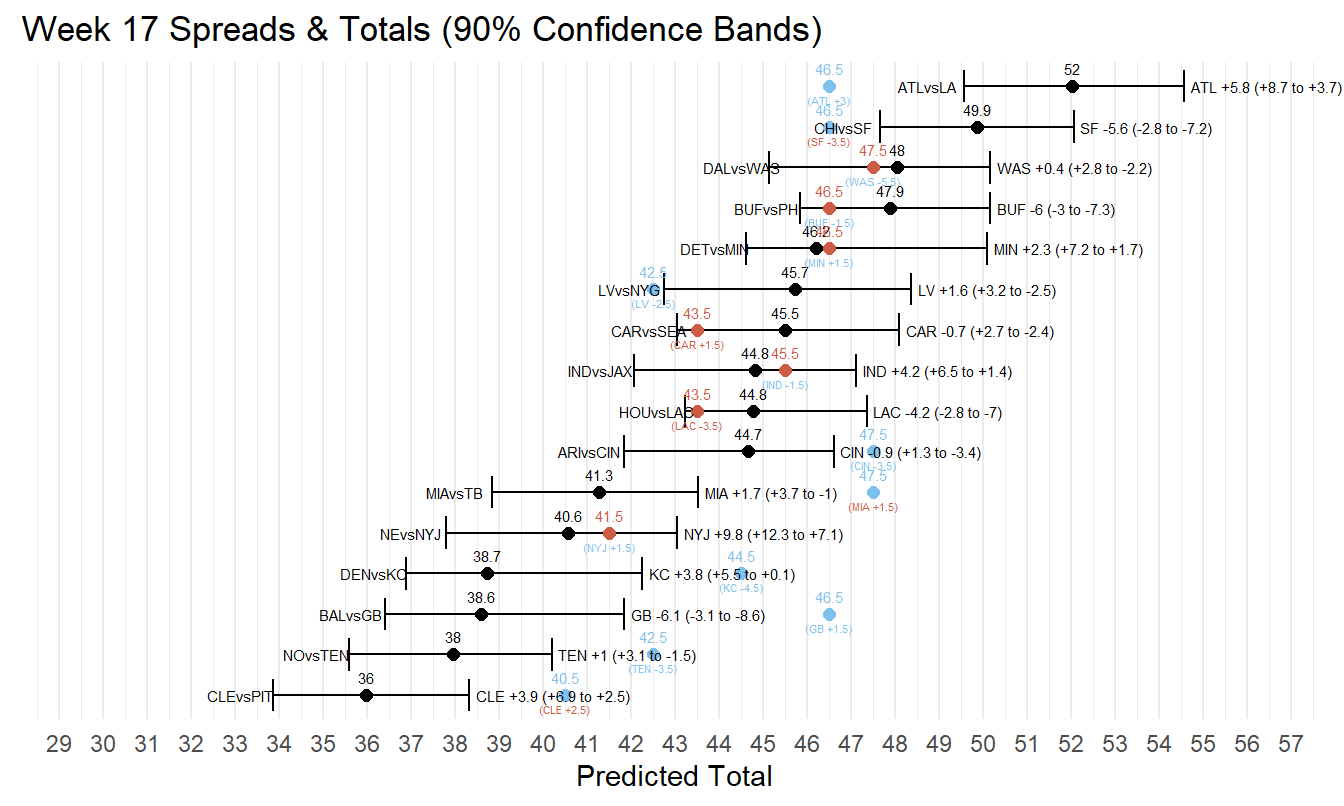
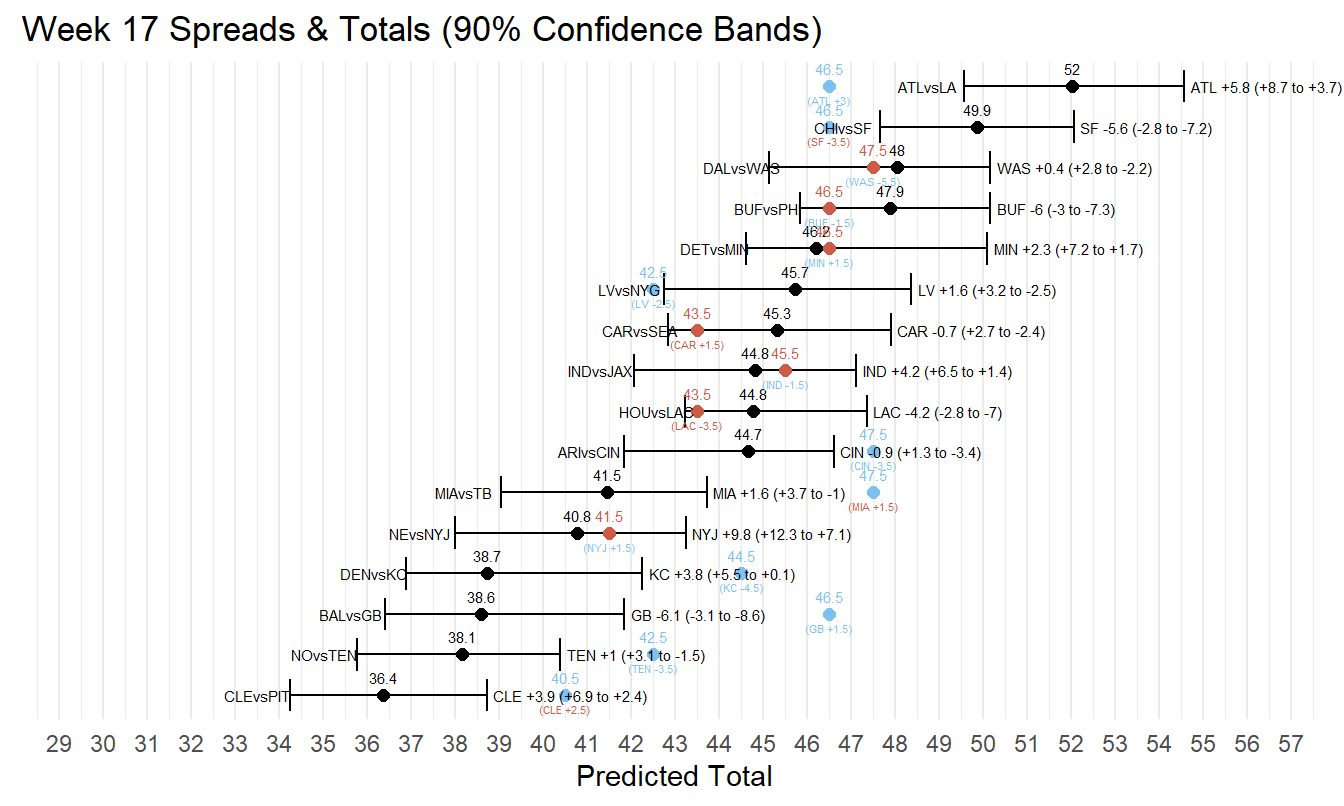
fixed EV tables

diff --git a/docs/mods.html b/docs/mods.html
@@ -127,7 +127,7 @@ Note
 </div>
 </div>
 <div class="callout-body-container callout-body">
-<p>Updated as of Saturday, December 27, 2025 at 9:17:27 PM</p>
+<p>Updated as of Saturday, December 27, 2025 at 9:28:20 PM</p>
 </div>
 </div>
 <section id="my-model-vs-vegas-based-on-opening-bet-lines" class="level2">
@@ -648,7 +648,7 @@ Note
 <tr class="odd">
 <td class="gt_row gt_left" headers="game">PIT @ CLE</td>
 <td class="gt_row gt_left" headers="total_line_label">40.5</td>
-<td class="gt_row gt_left" headers="total_mod_label">36.0</td>
+<td class="gt_row gt_left" headers="total_mod_label">36.4</td>
 <td class="gt_row gt_left" headers="bet_total">NA</td>
 <td class="gt_row gt_left" headers="spread_line_label">CLE +2.5</td>
 <td class="gt_row gt_left" headers="spread_mod_label">CLE +3.9</td>
@@ -3346,6 +3346,17 @@ Note
 
 <table class="gt_table caption-top table table-sm table-striped small" data-quarto-postprocess="true" data-quarto-disable-processing="false" data-quarto-bootstrap="false">
 <caption><strong>Bets to Take, Updated for Current Odds</strong></caption>
+<colgroup>
+<col style="width: 11%">
+<col style="width: 11%">
+<col style="width: 11%">
+<col style="width: 11%">
+<col style="width: 11%">
+<col style="width: 11%">
+<col style="width: 11%">
+<col style="width: 11%">
+<col style="width: 11%">
+</colgroup>
 <thead>
 <tr class="gt_col_headings header">
 <th id="game" class="gt_col_heading gt_columns_bottom_border gt_left" data-quarto-table-cell-role="th" scope="col"><strong>Game</strong></th>
@@ -3361,66 +3372,105 @@ Note
 </thead>
 <tbody class="gt_table_body">
 <tr class="odd">
-<td class="gt_row gt_left" headers="game">ARIvsCIN</td>
-<td class="gt_row gt_left" headers="total_line_current_label">53.5</td>
-<td class="gt_row gt_left" headers="total_mod_label">44.7</td>
-<td class="gt_row gt_left" headers="side_current_total">Over</td>
-<td class="gt_row gt_left" headers="stake_current_total">1.10</td>
-<td class="gt_row gt_left" headers="spread_line_current_label">(CIN -7)</td>
-<td class="gt_row gt_left" headers="spread_mod_label">CIN -0.9</td>
-<td class="gt_row gt_left" headers="side_current_spread">Home</td>
-<td class="gt_row gt_left" headers="stake_current_spread">1.10</td>
+<td class="gt_row gt_left" headers="game">PIT @ CLE</td>
+<td class="gt_row gt_left" headers="total_line_current_label">33.5</td>
+<td class="gt_row gt_left" headers="total_mod_label">36.4</td>
+<td class="gt_row gt_left" headers="side_current_total">Under</td>
+<td class="gt_row gt_left" headers="stake_current_total">1.97</td>
+<td class="gt_row gt_left" headers="spread_line_current_label">(CLE +3)</td>
+<td class="gt_row gt_left" headers="spread_mod_label">CLE +3.9</td>
+<td class="gt_row gt_left" headers="side_current_spread"><br>
+</td>
+<td class="gt_row gt_left" headers="stake_current_spread">0.00</td>
 </tr>
 <tr class="even">
-<td class="gt_row gt_left" headers="game">BUFvsPHI</td>
+<td class="gt_row gt_left" headers="game">NO @ TEN</td>
+<td class="gt_row gt_left" headers="total_line_current_label">39.5</td>
+<td class="gt_row gt_left" headers="total_mod_label">38.1</td>
+<td class="gt_row gt_left" headers="side_current_total">Under</td>
+<td class="gt_row gt_left" headers="stake_current_total">1.50</td>
+<td class="gt_row gt_left" headers="spread_line_current_label">(TEN +2.5)</td>
+<td class="gt_row gt_left" headers="spread_mod_label">TEN +1</td>
+<td class="gt_row gt_left" headers="side_current_spread"><br>
+</td>
+<td class="gt_row gt_left" headers="stake_current_spread">0.49</td>
+</tr>
+<tr class="odd">
+<td class="gt_row gt_left" headers="game">PHI @ BUF</td>
 <td class="gt_row gt_left" headers="total_line_current_label">44.5</td>
 <td class="gt_row gt_left" headers="total_mod_label">47.9</td>
 <td class="gt_row gt_left" headers="side_current_total">Over</td>
-<td class="gt_row gt_left" headers="stake_current_total">2.49</td>
+<td class="gt_row gt_left" headers="stake_current_total">0.92</td>
 <td class="gt_row gt_left" headers="spread_line_current_label">(BUF -1.5)</td>
 <td class="gt_row gt_left" headers="spread_mod_label">BUF -6</td>
 <td class="gt_row gt_left" headers="side_current_spread">Home</td>
 <td class="gt_row gt_left" headers="stake_current_spread">2.49</td>
 </tr>
-<tr class="odd">
-<td class="gt_row gt_left" headers="game">CARvsSEA</td>
-<td class="gt_row gt_left" headers="total_line_current_label">42.5</td>
-<td class="gt_row gt_left" headers="total_mod_label">45.5</td>
-<td class="gt_row gt_left" headers="side_current_total">Over</td>
-<td class="gt_row gt_left" headers="stake_current_total">1.10</td>
-<td class="gt_row gt_left" headers="spread_line_current_label">(CAR +7)</td>
-<td class="gt_row gt_left" headers="spread_mod_label">CAR -0.7</td>
-<td class="gt_row gt_left" headers="side_current_spread">Home</td>
-<td class="gt_row gt_left" headers="stake_current_spread">1.10</td>
-</tr>
 <tr class="even">
-<td class="gt_row gt_left" headers="game">CHIvsSF</td>
+<td class="gt_row gt_left" headers="game">CHI @ SF</td>
 <td class="gt_row gt_left" headers="total_line_current_label">52.5</td>
 <td class="gt_row gt_left" headers="total_mod_label">49.9</td>
 <td class="gt_row gt_left" headers="side_current_total">Over</td>
-<td class="gt_row gt_left" headers="stake_current_total">2.25</td>
+<td class="gt_row gt_left" headers="stake_current_total">1.40</td>
 <td class="gt_row gt_left" headers="spread_line_current_label">(SF -3)</td>
 <td class="gt_row gt_left" headers="spread_mod_label">SF -5.6</td>
 <td class="gt_row gt_left" headers="side_current_spread">Home</td>
 <td class="gt_row gt_left" headers="stake_current_spread">2.25</td>
 </tr>
 <tr class="odd">
-<td class="gt_row gt_left" headers="game">DALvsWAS</td>
+<td class="gt_row gt_left" headers="game">DAL @ WAS</td>
 <td class="gt_row gt_left" headers="total_line_current_label">50.5</td>
 <td class="gt_row gt_left" headers="total_mod_label">48.0</td>
 <td class="gt_row gt_left" headers="side_current_total">Over</td>
-<td class="gt_row gt_left" headers="stake_current_total">0.96</td>
+<td class="gt_row gt_left" headers="stake_current_total">0.84</td>
 <td class="gt_row gt_left" headers="spread_line_current_label">(WAS +8.5)</td>
 <td class="gt_row gt_left" headers="spread_mod_label">WAS +0.4</td>
 <td class="gt_row gt_left" headers="side_current_spread">Home</td>
 <td class="gt_row gt_left" headers="stake_current_spread">0.96</td>
 </tr>
 <tr class="even">
-<td class="gt_row gt_left" headers="game">HOUvsLAC</td>
+<td class="gt_row gt_left" headers="game">LA @ ATL</td>
+<td class="gt_row gt_left" headers="total_line_current_label">49.5</td>
+<td class="gt_row gt_left" headers="total_mod_label">52.0</td>
+<td class="gt_row gt_left" headers="side_current_total">Over</td>
+<td class="gt_row gt_left" headers="stake_current_total">1.86</td>
+<td class="gt_row gt_left" headers="spread_line_current_label">(ATL +7.5)</td>
+<td class="gt_row gt_left" headers="spread_mod_label">ATL +5.8</td>
+<td class="gt_row gt_left" headers="side_current_spread"><br>
+</td>
+<td class="gt_row gt_left" headers="stake_current_spread">0.15</td>
+</tr>
+<tr class="odd">
+<td class="gt_row gt_left" headers="game">ARI @ CIN</td>
+<td class="gt_row gt_left" headers="total_line_current_label">53.5</td>
+<td class="gt_row gt_left" headers="total_mod_label">44.7</td>
+<td class="gt_row gt_left" headers="side_current_total"><br>
+</td>
+<td class="gt_row gt_left" headers="stake_current_total">0.00</td>
+<td class="gt_row gt_left" headers="spread_line_current_label">(CIN -7)</td>
+<td class="gt_row gt_left" headers="spread_mod_label">CIN -0.9</td>
+<td class="gt_row gt_left" headers="side_current_spread">Home</td>
+<td class="gt_row gt_left" headers="stake_current_spread">1.10</td>
+</tr>
+<tr class="even">
+<td class="gt_row gt_left" headers="game">SEA @ CAR</td>
+<td class="gt_row gt_left" headers="total_line_current_label">42.5</td>
+<td class="gt_row gt_left" headers="total_mod_label">45.3</td>
+<td class="gt_row gt_left" headers="side_current_total"><br>
+</td>
+<td class="gt_row gt_left" headers="stake_current_total">0.11</td>
+<td class="gt_row gt_left" headers="spread_line_current_label">(CAR +7)</td>
+<td class="gt_row gt_left" headers="spread_mod_label">CAR -0.7</td>
+<td class="gt_row gt_left" headers="side_current_spread">Home</td>
+<td class="gt_row gt_left" headers="stake_current_spread">1.10</td>
+</tr>
+<tr class="odd">
+<td class="gt_row gt_left" headers="game">HOU @ LAC</td>
 <td class="gt_row gt_left" headers="total_line_current_label">40.5</td>
 <td class="gt_row gt_left" headers="total_mod_label">44.8</td>
-<td class="gt_row gt_left" headers="side_current_total">Over</td>
-<td class="gt_row gt_left" headers="stake_current_total">2.11</td>
+<td class="gt_row gt_left" headers="side_current_total"><br>
+</td>
+<td class="gt_row gt_left" headers="stake_current_total">0.00</td>
 <td class="gt_row gt_left" headers="spread_line_current_label">(LAC -1.5)</td>
 <td class="gt_row gt_left" headers="spread_mod_label">LAC -4.2</td>
 <td class="gt_row gt_left" headers="side_current_spread">Home</td>
